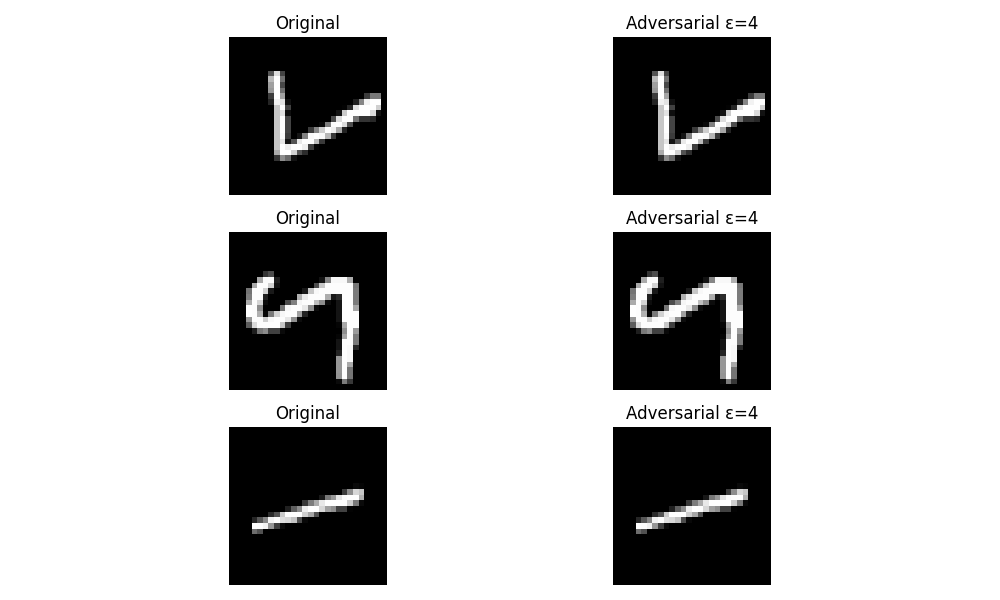
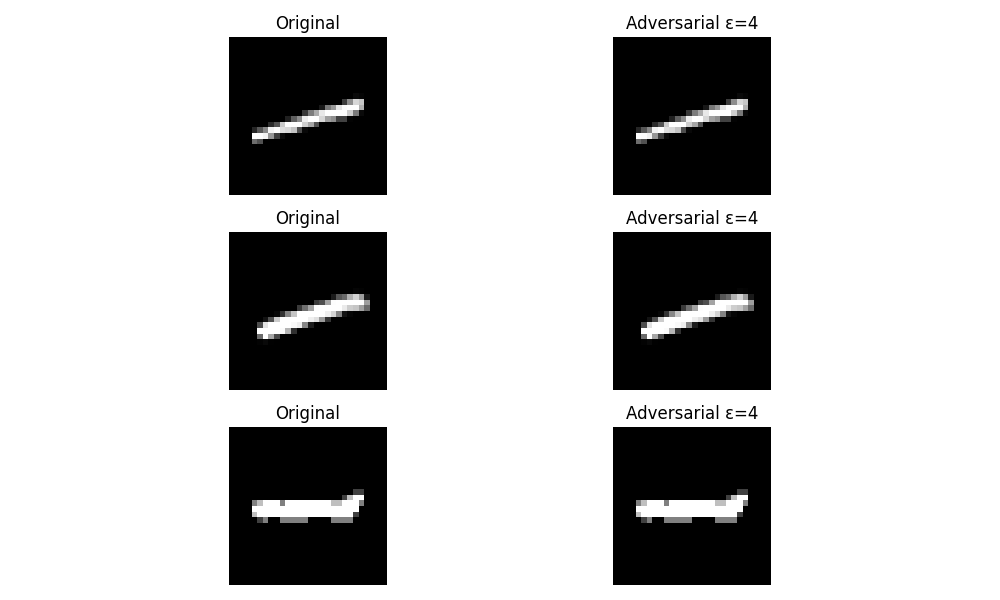
add autoencoder attack

diff --git a/HW3/handout/code/deliverable6/attack.py b/HW3/handout/code/deliverable6/attack.py
@@ -103,7 +103,6 @@ class Net(nn.Module):
 #load MNIST
 dataset_train = datasets.MNIST('../data', train=True, download=True)
 dataset_test = datasets.MNIST('../data', train=False, download=True)
-
 # reshape MNIST
 x_train=dataset_train.data.numpy()
 y_train=dataset_train.targets.numpy()
@@ -182,70 +181,239 @@ def targeted_attack(model, images, labels, target_class, epsilon=2, iters=100, a
     return_images = images.detach().clone()
     return_images[mask] = perturbed_images
     return return_images
-         
+
+
+class Autoencoder(nn.Module):
+    def __init__(self):
+        super(Autoencoder, self).__init__()
+        # 28 - 2*padding // stride + 1
+        # Encoder
+        self.encoder = nn.Sequential(
+            nn.Conv2d(1, 16, 3, stride=2, padding=1), # 14
+            nn.ReLU(),
+            nn.Conv2d(16, 32, 3, stride=2, padding=1), # 7
+            nn.ReLU(),
+            nn.Conv2d(32, 64, 7)
+        )
+        
+        # Decoder
+        self.decoder = nn.Sequential(
+            nn.ConvTranspose2d(64, 32, 7),
+            nn.ReLU(),
+            nn.ConvTranspose2d(32, 16, 3, stride=2, padding=1, output_padding=1),
+            nn.ReLU(),
+            nn.ConvTranspose2d(16, 1, 3, stride=2, padding=1, output_padding=1),
+            nn.Sigmoid()
+        )
+    
+    def forward(self, x):
+        x = self.encoder(x)
+        x = self.decoder(x)
+        return x
+
+class MyNet(nn.Module):
+    def __init__(self):
+        super().__init__()
+        self.layers = nn.Sequential(
+            nn.Linear(784, 784),
+            nn.Tanh(),
+            nn.Linear(784, 784),
+        )
+    def forward(self, x):
+        return self.layers(x)
+    
 #improved targeted attack 
 #you may add parameters as you wish
-def targeted_attack_improved(model, images, labels, target_class, epsilon=0.03, iters=300, alpha=1.0):
+def targeted_attack_improved(model, images, labels, target_class, epsilons=[1,2,4,8,16,32], iters=100, alpha=1.0):
     model.eval()
+    for param in model.parameters():
+        param.requires_grad = False
+
     mask_1 = labels == 1
     images_to_attack = images[mask_1].detach().clone()
     labels_to_attack = labels[mask_1].detach().clone()
     perturbed_images = images_to_attack.detach().clone()
-    perturbations = []
-    labels = []
-    epsilon_large = 128
-    attack_perturbation = {}
-    for i in range(images_to_attack.shape[0]):
-        print(f"Image:{i}")
-        image = images_to_attack[i]
-
-        perturbation = torch.zeros((1, images.shape[1], images.shape[2], images.shape[3]), requires_grad=True)
-        optimizer = torch.optim.Adam([perturbation], lr=1)
-        for _ in range(300):
-            optimizer.zero_grad()
-            
-            # Apply perturbations within epsilon constraints
-            perturbed_images = image + perturbation
+    target_labels = torch.full_like(labels_to_attack, target_class) 
+    
+    batches=np.ceil(len(images_to_attack)/16).astype(int)
+    success=0
+    total_loss=0
+    net = Autoencoder()
+    optimizer = torch.optim.Adam(net.parameters(), lr=0.001)
+    epsilon_large = 16
+    for iter in range(400):
+        total_loss = 0
+        for i in range(batches):
+            net.zero_grad()
+            start_index=i*16
+            end_index=np.minimum((i+1)*16,len(images_to_attack))
+            x_batch=torch.tensor(images_to_attack[start_index:end_index].detach().clone()).float()
+            y_batch=torch.tensor(target_labels[start_index:end_index].detach().clone()).long()
+            perturbed_images = net(x_batch/255)
+            perturbed_images = perturbed_images * 255
+            perturbed_images = torch.clamp(perturbed_images, min=x_batch.detach().clone()-epsilon_large, max=x_batch.detach().clone()+epsilon_large)
             perturbed_images = torch.clamp(perturbed_images, 0, 255)
-            perturbed_images = torch.clamp(perturbed_images - image, min=-epsilon_large, max=epsilon_large) + image
+            output = model(perturbed_images)
             
-            outputs = model(perturbed_images)
-            loss = F.cross_entropy(outputs, torch.tensor([8]))
-            loss.backward()            
+            loss = F.cross_entropy(output, y_batch)
+            loss.backward()
             optimizer.step()
-            label = torch.argmax(outputs).item()
-
-            # Project the perturbations to ensure they are within the epsilon ball after update
-            perturbation.data = torch.clamp(perturbation, min=-epsilon_large, max=epsilon_large)
-            if label == 8:
-                attack_perturbation[i] = perturbation.detach().clone()
-                break
-    attack_success_amt = len(attack_perturbation)
-    print(f"Epsilon:{epsilon} -> {attack_success_amt}")
-
-    
+            total_loss += loss.item()
+        print(f"Epoch: {iter}: {total_loss / batches}")
     perturbed_images = images_to_attack.detach().clone()
-    for i in range(perturbed_images.shape[0]):
-        print(f"Revise images:{i}")
-        temp_image = perturbed_images[i].detach().clone()
-        if i in attack_perturbation:
-            perturbation = attack_perturbation[i]
-            for _ in range(iters):
-                temp_image = temp_image + perturbation * 0.1
-                temp_image = torch.clamp(temp_image - perturbed_images[i].detach().clone(), min=-epsilon, max=epsilon) + perturbed_images[i].detach().clone()
-                temp_image = torch.clamp(temp_image, 0, 255)
-                
-                outputs = model(temp_image)
-                label = torch.argmax(outputs).item()
+    # perturbed_images = images_to_attack.detach().clone().reshape(images_to_attack.shape[0], -1)
+    perturbed_images = net(perturbed_images/255)
+    perturbed_images = perturbed_images * 255
+    # perturbed_images = perturbed_images.reshape(perturbed_images.shape[0], 1,28, 28)
+    perturbed_images = torch.clamp(perturbed_images, min=images_to_attack-epsilon_large, max=images_to_attack+epsilon_large)
+    perturbed_images = torch.clamp(perturbed_images, 0, 255)
+    outputs = model(perturbed_images)
+    labels = torch.argmax(outputs, dim=-1)
+    mask = labels == 8
+    success = 100* len(labels[mask]) / len(labels)
+    import pdb
+    pdb.set_trace()
 
-                if label == 8:
-                    perturbed_images[i] = temp_image.detach().clone()
-                    break
+
+    net = Autoencoder()
+    optimizer = torch.optim.Adam(net.parameters(), lr=0.01)
+    epsilon_large = 16
+    for i in range(1000):
+        model.zero_grad()
+        perturbed_images = images_to_attack.detach().clone()
+        # perturbed_images = images_to_attack.detach().clone().reshape(images_to_attack.shape[0], -1)
+        perturbed_images = net(perturbed_images/255)
+        perturbed_images = perturbed_images * 255
+        # perturbed_images = perturbed_images.reshape(perturbed_images.shape[0], 1,28, 28)
+        perturbed_images = torch.clamp(perturbed_images, min=images_to_attack-epsilon_large, max=images_to_attack+epsilon_large)
+        perturbed_images = torch.clamp(perturbed_images, 0, 255)
+        output = model(perturbed_images)
+        loss = F.cross_entropy(output, target_labels)
+        print(f"Iters: {i}: {loss}")
+        loss.backward()
+        optimizer.step()
+    perturbed_images = images_to_attack.detach().clone()
+    # perturbed_images = images_to_attack.detach().clone().reshape(images_to_attack.shape[0], -1)
+    perturbed_images = net(perturbed_images/255)
+    perturbed_images = perturbed_images * 255
+    # perturbed_images = perturbed_images.reshape(perturbed_images.shape[0], 1,28, 28)
+    perturbed_images = torch.clamp(perturbed_images, min=images_to_attack-epsilon_large, max=images_to_attack+epsilon_large)
+    perturbed_images = torch.clamp(perturbed_images, 0, 255)
+    outputs = model(perturbed_images)
+    labels = torch.argmax(outputs, dim=-1)
+    mask = labels == 8
+    success = (labels[mask].sum() / len(labels)).item()
+    import pdb
+    pdb.set_trace()
     
+
+    loss = F.cross_entropy(outputs, torch.tensor([8]))
+    loss.backward()            
+    optimizer.step()
+    label = torch.argmax(outputs).item()
+    
+
+
+
+    mask_1 = labels == 1
+
+    images_to_attack = images[mask_1].detach().clone()
+    labels_to_attack = labels[mask_1].detach().clone()
+    perturbed_images = images_to_attack.detach().clone()
+    target_labels = torch.full_like(labels_to_attack, target_class)
+
+    # perturbed_images = perturbed_images + chosen_image_8
+    perturbed_images = torch.clamp(perturbed_images, 0, 255)
+
+    m=torch.zeros(perturbed_images.shape)
+    v=torch.zeros(perturbed_images.shape)
+    epsilon_large = 128
+
+    for i in range(iters): # PGD
+        perturbed_images.requires_grad = True
+        outputs = model(perturbed_images)
+        loss = F.cross_entropy(outputs, target_labels)
+        model.zero_grad()
+        loss.backward()
+        grads = perturbed_images.grad
+        with torch.no_grad():
+            t=i+1
+            m=0.9*m+0.1*grads
+            v=0.999*v+0.001*grads*grads
+            mhat=m/(1.0 - 0.9**t)
+            vhat=v/(1.0 - 0.999**t)
+            grads=mhat / (torch.sqrt(vhat) + 1e-8)
+
+            perturbed_images = perturbed_images - alpha * grads.sign()
+            perturbed_images = torch.clamp(perturbed_images, min=images_to_attack-epsilon_large, max=images_to_attack+epsilon_large)
+            perturbed_images = torch.clamp(perturbed_images, 0, 255)
+            perturbed_images = perturbed_images.detach().clone()
+
+    perturbed_images.requires_grad = False
     return_images = images.detach().clone()
     return_images[mask_1] = perturbed_images
 
-    return return_images
+    # mask_1 = labels == 1
+    # images_to_attack = images[mask_1].detach().clone()
+    # labels_to_attack = labels[mask_1].detach().clone()
+    # perturbed_images = images_to_attack.detach().clone()
+    # perturbations = []
+    # labels = []
+    # epsilon_large = 128
+    # attack_perturbation = {}
+    # for i in range(images_to_attack.shape[0]):
+    #     print(f"Image:{i}")
+    #     image = images_to_attack[i]
+
+    #     perturbation = torch.zeros((1, images.shape[1], images.shape[2], images.shape[3]), requires_grad=True)
+    #     optimizer = torch.optim.Adam([perturbation], lr=1)
+    #     for _ in range(100):
+    #         optimizer.zero_grad()
+            
+    #         # Apply perturbations within epsilon constraints
+    #         perturbed_images = image + perturbation
+    #         perturbed_images = torch.clamp(perturbed_images, 0, 255)
+    #         perturbed_images = torch.clamp(perturbed_images - image, min=-epsilon_large, max=epsilon_large) + image
+            
+    #         outputs = model(perturbed_images)
+    #         loss = F.cross_entropy(outputs, torch.tensor([8]))
+    #         loss.backward()            
+    #         optimizer.step()
+    #         label = torch.argmax(outputs).item()
+
+    #         # Project the perturbations to ensure they are within the epsilon ball after update
+    #         perturbation.data = torch.clamp(perturbation, min=-epsilon_large, max=epsilon_large)
+    #         if label == 8:
+    #             attack_perturbation[i] = perturbation.detach().clone()
+    #             break
+    # attack_success_amt = len(attack_perturbation)
+    # print(f"Epsilon:{epsilon_large} -> {attack_success_amt}")
+
+    return_images_list = []
+    for epsilon in epsilons:
+        print(f"Improved target attack: Running on epsilon:{epsilon}")
+        perturbed_images = images_to_attack.detach().clone()
+        for i in range(perturbed_images.shape[0]):
+            temp_image = perturbed_images[i].detach().clone()
+            if i in attack_perturbation:
+                perturbation = attack_perturbation[i]
+                for _ in range(iters):
+                    temp_image = temp_image + perturbation * 0.1
+                    temp_image = torch.clamp(temp_image - perturbed_images[i].detach().clone(), min=-epsilon, max=epsilon) + perturbed_images[i].detach().clone()
+                    temp_image = torch.clamp(temp_image, 0, 255)
+                    
+                    outputs = model(temp_image)
+                    label = torch.argmax(outputs).item()
+
+                    if label == 8:
+                        perturbed_images[i] = temp_image.detach().clone()
+                        break
+        
+        return_images = images.detach().clone()
+        return_images[mask_1] = perturbed_images
+        return_images_list.append(return_images)
+
+    return return_images_list
 
 
     
@@ -297,17 +465,17 @@ def targeted_attack_improved(model, images, labels, target_class, epsilon=0.03, 
 #evaluate performance of attacks
 	#TODO
 
-models = [modelA, modelB]
-# models = [modelB]
-# model_names = ['Model B']
-model_names = ['Model A', 'Model B']
-# attacks = [targeted_attack_improved]
-attacks = [untargeted_attack, targeted_attack, targeted_attack_improved]
-# attack_names = ['Improved Targeted Attack']
-attack_names = ['Untargeted Attack', 'Targeted Attack', 'Improved Targeted Attack']
+# models = [modelA, modelB]
+models = [modelA]
+model_names = ['Model B']
+# model_names = ['Model A', 'Model B']
+attacks = [targeted_attack_improved]
+# attacks = [untargeted_attack, targeted_attack, targeted_attack_improved]
+attack_names = ['Improved Targeted Attack']
+# attack_names = ['Untargeted Attack', 'Targeted Attack', 'Improved Targeted Attack']
 # epsilons = [i for i in range(1, 17)]
-epsilons = [1,2,4,8,16,32]
-# epsilons = [8,16]
+# epsilons = [4,8]
+epsilons = [16]
 
 # Placeholder for success rates
 success_rates = np.zeros((len(models), len(attacks), len(epsilons)))
@@ -316,25 +484,37 @@ for i, model in enumerate(models):
     print(f"Model:{model_names[i]}")
     for j, attack in enumerate(attacks):
         print(f"Attack:{attack_names[j]}")
-        for k, epsilon in enumerate(epsilons):
-            print(f"Epsilon: {epsilon}")
-            if attack_names[j] != "Untargeted Attack":
-                adv_examples = attack(model=model, images=x_test_tensor, labels=y_test_tensor, target_class= 8, epsilon=epsilon)
-                success_rate = evaluate_attack_success_rate(model, adv_examples, y_test_tensor, target_class=8, attack_class=1)
-            else:
-                adv_examples = attack(model=model, images=x_test_tensor, labels=y_test_tensor, epsilon=epsilon)
-                success_rate = evaluate_attack_success_rate(model, adv_examples, y_test_tensor)
+        if attack_names[j] != "Improved Targeted Attack":
+            for k, epsilon in enumerate(epsilons):
+                print(f"Epsilon: {epsilon}")
+                if attack_names[j] != "Untargeted Attack":
+                    adv_examples = attack(model=model, images=x_test_tensor, labels=y_test_tensor, target_class= 8, epsilon=epsilon)
+                    success_rate = evaluate_attack_success_rate(model, adv_examples, y_test_tensor, target_class=8, attack_class=1)
+                else:
+                    adv_examples = attack(model=model, images=x_test_tensor, labels=y_test_tensor, epsilon=epsilon)
+                    success_rate = evaluate_attack_success_rate(model, adv_examples, y_test_tensor)
 
-            mask = y_test_tensor == 1
-            original_images = x_test[mask][:3]
-            adversarial_images = adv_examples[mask][:3]
-            
-            plot_adversarial_examples(original_images, adversarial_images, 3, epsilon, model_names[i], attack_names[j])
-            test(model, adv_examples, y_test, 512)
-            success_rates[i, j, k] = success_rate
-            print(f"Attack Success Rate:{success_rate}")
-            # print(f"Attack Fail Rate:{fail_rate}")
-            
+                mask = y_test_tensor == 1
+                original_images = x_test[mask][:3]
+                adversarial_images = adv_examples[mask][:3]
+
+                plot_adversarial_examples(original_images, adversarial_images, 3, epsilon, model_names[i], attack_names[j])
+                test(model, adv_examples, y_test, 512)
+                success_rates[i, j, k] = success_rate
+                print(f"Attack Success Rate:{success_rate}")
+        else:
+            all_adv_examples = attack(model=model, images=x_test_tensor, labels=y_test_tensor, target_class= 8, epsilons=epsilons)
+            for k, epsilon in enumerate(epsilons):
+                adv_examples = all_adv_examples[k]
+                success_rate = evaluate_attack_success_rate(model, adv_examples, y_test_tensor, target_class=8, attack_class=1)
+
+                mask = y_test_tensor == 1
+                original_images = x_test[mask][:3]
+                adversarial_images = adv_examples[mask][:3]
+                plot_adversarial_examples(original_images, adversarial_images, 3, epsilon, model_names[i], attack_names[j])
+                test(model, adv_examples, y_test, 512)
+                success_rates[i, j, k] = success_rate
+                print(f"Attack Success Rate:{success_rate}")
     print("\n")
 
 # Plotting
